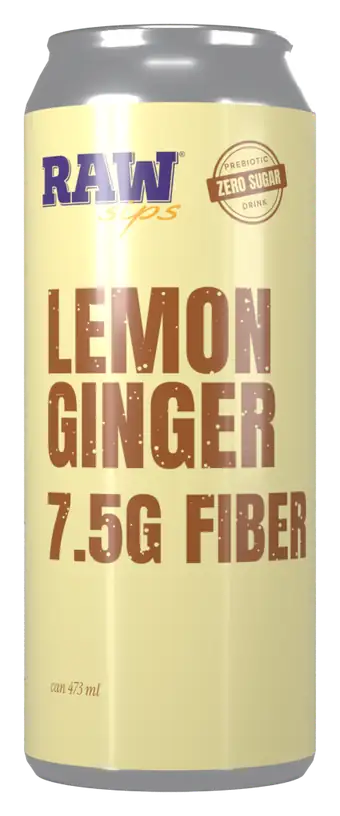
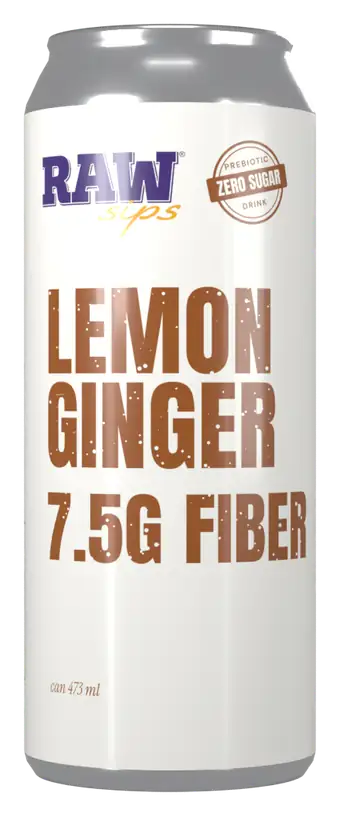
Lemon Ginger: white can
Claude-Session: https://claude.ai/code/session_01YEFVZs8gZVUd2vejphgc8r

diff --git a/index.html b/index.html
@@ -117,7 +117,7 @@ footer img{width:90px;margin:0 auto}
 <section class="flavour lemon"><div class="wrap">
 <img src="img/can-ginger.webp" alt="Lemon Ginger 473 ml can">
 <div><p class="eyebrow">Flavour 03</p><h1 style="color:#9A5212">LEMON<br>GINGER</h1>
-<p>Bright lemon with a warm ginger kick. A soft lemon-yellow can with deep ginger-amber ink.</p>
+<p>Bright lemon with a warm ginger kick. A clean white can with deep ginger-amber ink.</p>
 <div class="chips"><span class="chip">7.5G FIBER</span><span class="chip">0G SUGAR</span><span class="chip">473 ML</span></div></div>
 </div></section>
 
@@ -145,7 +145,7 @@ footer img{width:90px;margin:0 auto}
 <div class="sw"><div style="background:#B42A66"></div><p><b>Raspberry Ink</b><br>#B42A66</p></div>
 <div class="sw"><div style="background:#FBE6C6"></div><p><b>Peach Cream</b><br>#FBE6C6</p></div>
 <div class="sw"><div style="background:#C9562A"></div><p><b>Burnt Peach Ink</b><br>#C9562A</p></div>
-<div class="sw"><div style="background:#F6EBA8"></div><p><b>Lemon Cream</b><br>#F6EBA8</p></div>
+<div class="sw"><div style="background:#FDFCF7"></div><p><b>Clean White</b><br>#FDFCF7</p></div>
 <div class="sw"><div style="background:#9A5212"></div><p><b>Ginger Ink</b><br>#9A5212</p></div>
 </div>
 <div class="grid3" style="margin-top:40px">
